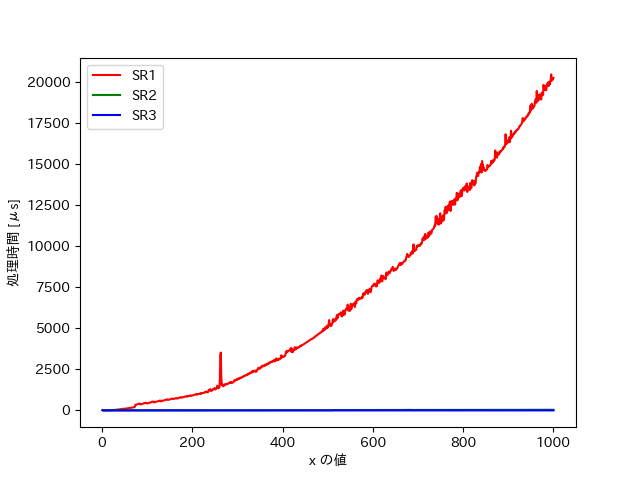
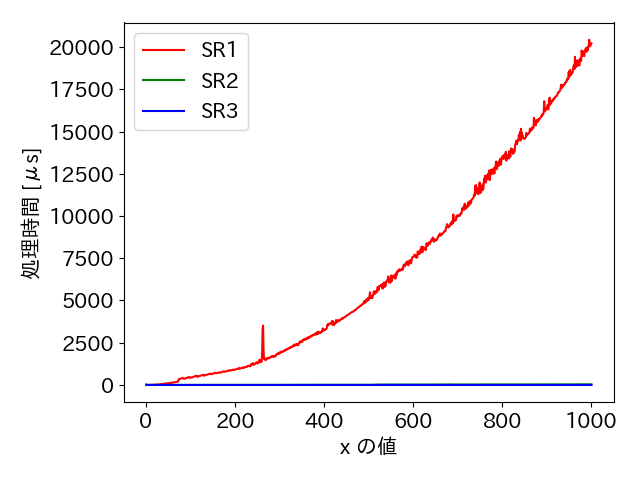
図のフォントサイズを変更した。

diff --git a/graph.py b/graph.py
@@ -6,6 +6,9 @@ import numpy as np
 import japanize_matplotlib
 
 
+# フォントサイズを設定
+plt.rcParams['font.size'] = 15
+
 # SR1, SR2, SR3 の比較
 data1 = np.loadtxt('output1.txt', skiprows=2, delimiter=',')
 data2 = np.loadtxt('output2.txt', skiprows=2, delimiter=',')
@@ -18,6 +21,7 @@ plt.plot(data3[:,0], data3[:,1], label='SR3', color='blue')
 plt.xlabel('x の値') # x 軸のラベル
 plt.ylabel('処理時間 [μs]') # y 軸のラベル
 plt.legend() # 凡例を表示
+plt.tight_layout()
 plt.show()
 
 # SR2, SR3 の比較
@@ -30,4 +34,5 @@ plt.plot(bigdata3[:,0], bigdata3[:,1], label='SR3', color='blue')
 plt.xlabel('x の値') # x 軸のラベル
 plt.ylabel('処理時間 [μs]') # y 軸のラベル
 plt.legend() # 凡例を表示
+plt.tight_layout()
 plt.show()
